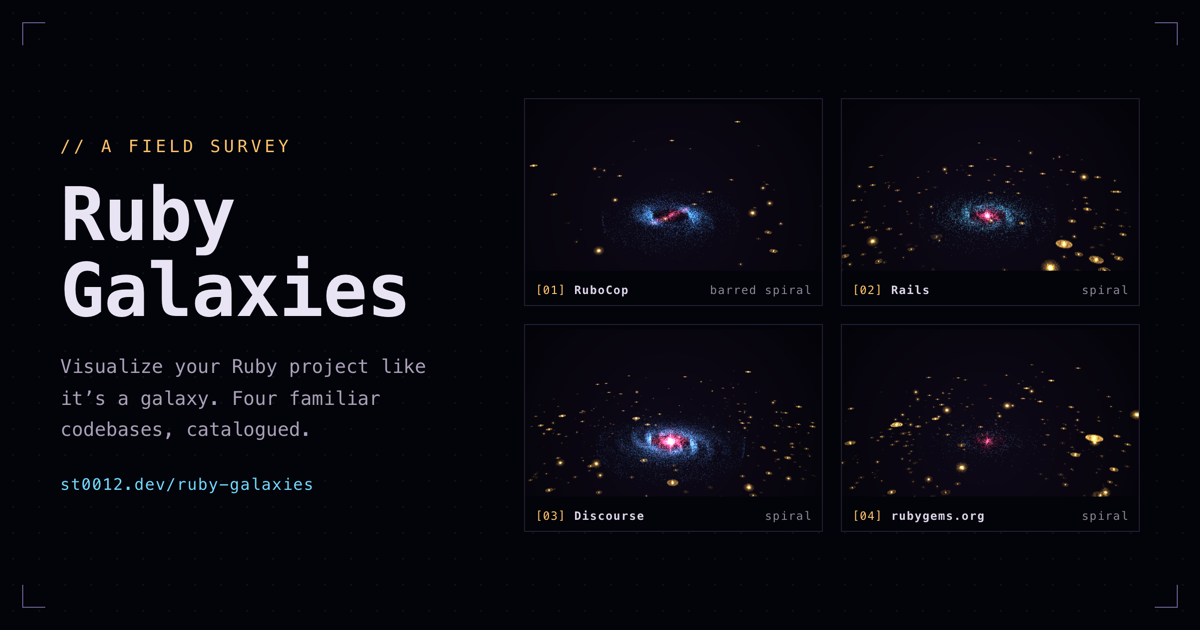
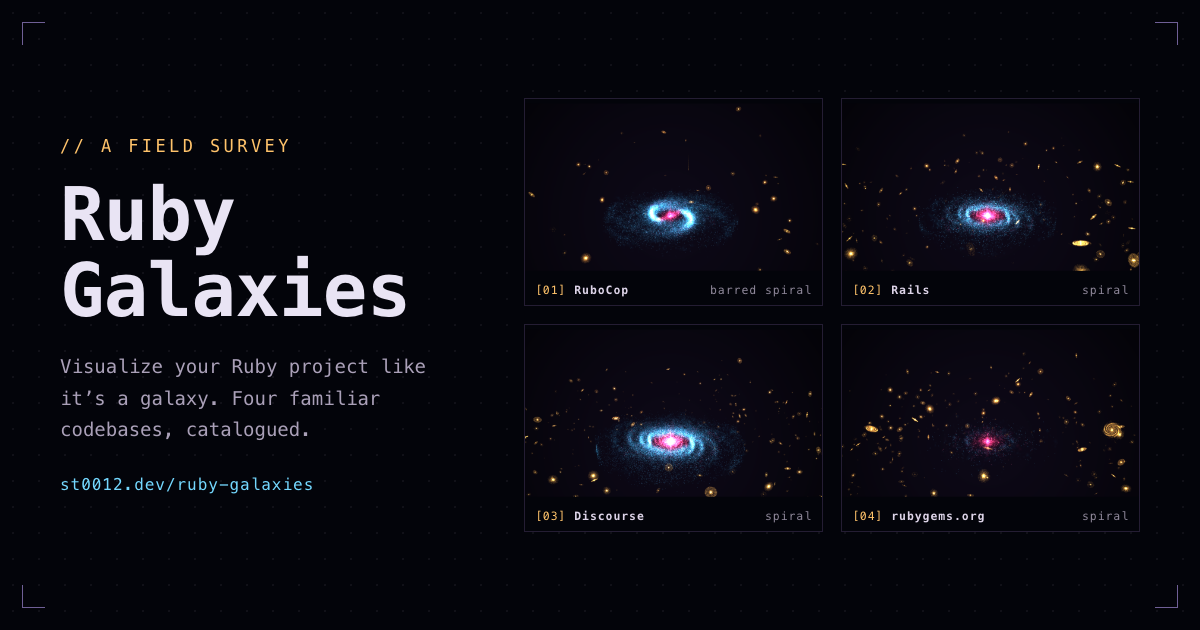
Regenerate Ruby Galaxies gallery

diff --git a/gallery/index.html b/gallery/index.html
@@ -124,7 +124,7 @@
       <div class="readout">
         <span>role <b>linter · formatter</b></span>
         <span>packages <b>54</b></span>
-        <span>generated <b>2026-07-18</b></span>
+        <span>generated <b>2026-07-25</b></span>
       </div>
     </section>
 
@@ -147,7 +147,7 @@
       <div class="readout">
         <span>role <b>full-stack framework</b></span>
         <span>packages <b>217</b></span>
-        <span>generated <b>2026-07-18</b></span>
+        <span>generated <b>2026-07-25</b></span>
       </div>
     </section>
 
@@ -170,7 +170,7 @@
       <div class="readout">
         <span>role <b>discussion platform</b></span>
         <span>packages <b>301</b></span>
-        <span>generated <b>2026-07-18</b></span>
+        <span>generated <b>2026-07-25</b></span>
       </div>
     </section>
 
@@ -193,7 +193,7 @@
       <div class="readout">
         <span>role <b>gem host</b></span>
         <span>packages <b>294</b></span>
-        <span>generated <b>2026-07-18</b></span>
+        <span>generated <b>2026-07-25</b></span>
       </div>
     </section>
   </div>
